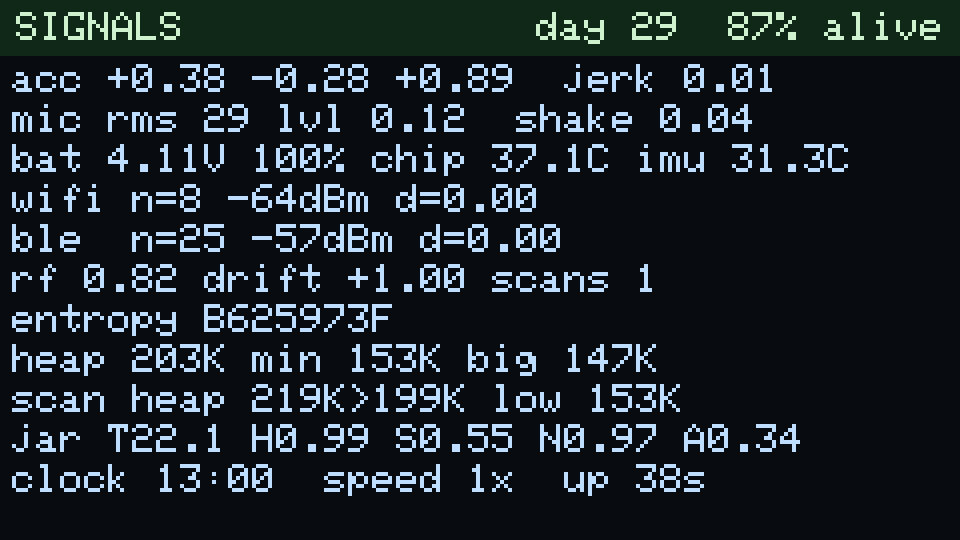
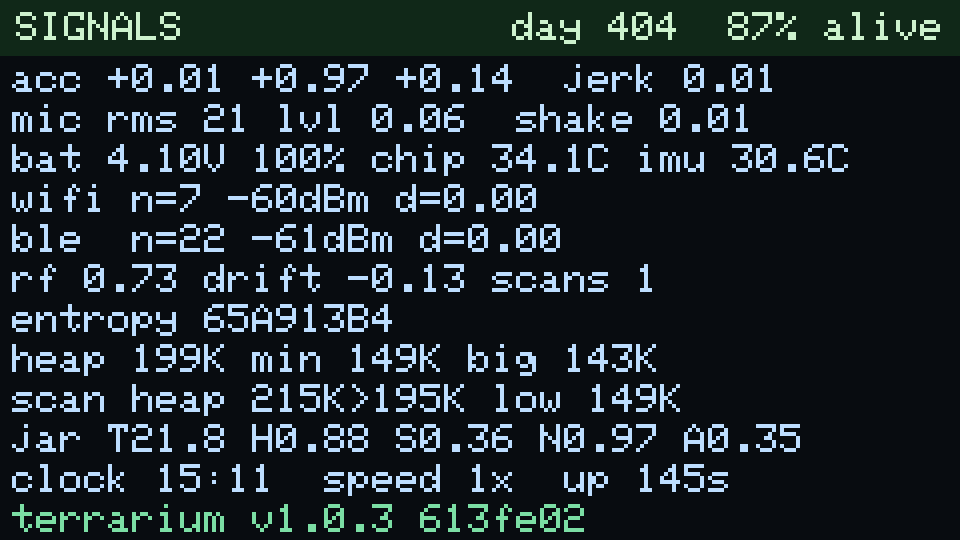
README: USB hot-plug is a known issue, not fixed; v1.0.3 Signals shot
Verified on v1.0.3: a cable plugged into a running board still shows up as
power only, and the board's USB record for that boot has no bus reset or
start-of-frame. Releasing GPIO19/20 alone did not fix it. Document the
workaround (cable first, then switch on).

Claude-Session: https://claude.ai/code/session_01SuPBVCJyWX74QwVoBREBwX

diff --git a/README.md b/README.md
@@ -32,6 +32,9 @@ Launcher's SD browser and install it. The app is ~1.1 MB and fits the Launcher's
 
 **Browser:** desktop Chrome, Edge or Opera, USB-C data cable, click *Install*. About a minute.
 
+For USB routes, connect the cable **before** switching the board on: a board that is already
+running does not show up when the cable is plugged in.
+
 > `factory.bin` (M5Burner and the web installer) **replaces an M5Launcher layout and its
 > installed apps**. Use the SD-card route if you want to keep them.
 
@@ -169,12 +172,14 @@ make test      # ~2 s, prints per-species min/mean/max and PASS/FAIL
   with `WiFi.scanDelete()` or each scan leaks ~650 bytes.
 - The keyboard's `isChange()` is a destructive latch, so it is polled on every loop, releases
   included.
-- **USB hot-plug.** Arduino 2.0.x `HWCDC::begin()` forces a re-enumeration by driving D-/D+
-  (GPIO19/20) low as GPIO outputs and never releases them, so a cable plugged into an already
-  running board never enumerated (the host saw power only). The firmware hands both pins back to
-  the USB PHY after `Serial.begin()`. Serial `u` prints the pin state plus a per-boot record of
-  USB events (bus resets, connects, start-of-frame seen/lost) kept in NVS for the last three
-  boots, so a failed plug can be read back after the next boot.
+- **USB hot-plug does not work yet.** A cable plugged into an already running board is seen by
+  the host as power only, with no USB device. Plug the cable in first, then switch the board on
+  (or switch it off and on with the cable attached), and the serial port appears. The firmware
+  hands D-/D+ (GPIO19/20) back to the USB PHY after `Serial.begin()` (Arduino 2.0.x `HWCDC`
+  leaves them as GPIO outputs), but that alone did not fix it: on a failed plug the board sees
+  no bus reset and no start-of-frame at all. Serial `u` prints the pin state plus a per-boot
+  record of USB events (bus resets, connects, start-of-frame seen/lost) kept in NVS for the last
+  three boots, so a failed plug can be read back after the next boot.
 
 ## Prebuilt firmware
 
